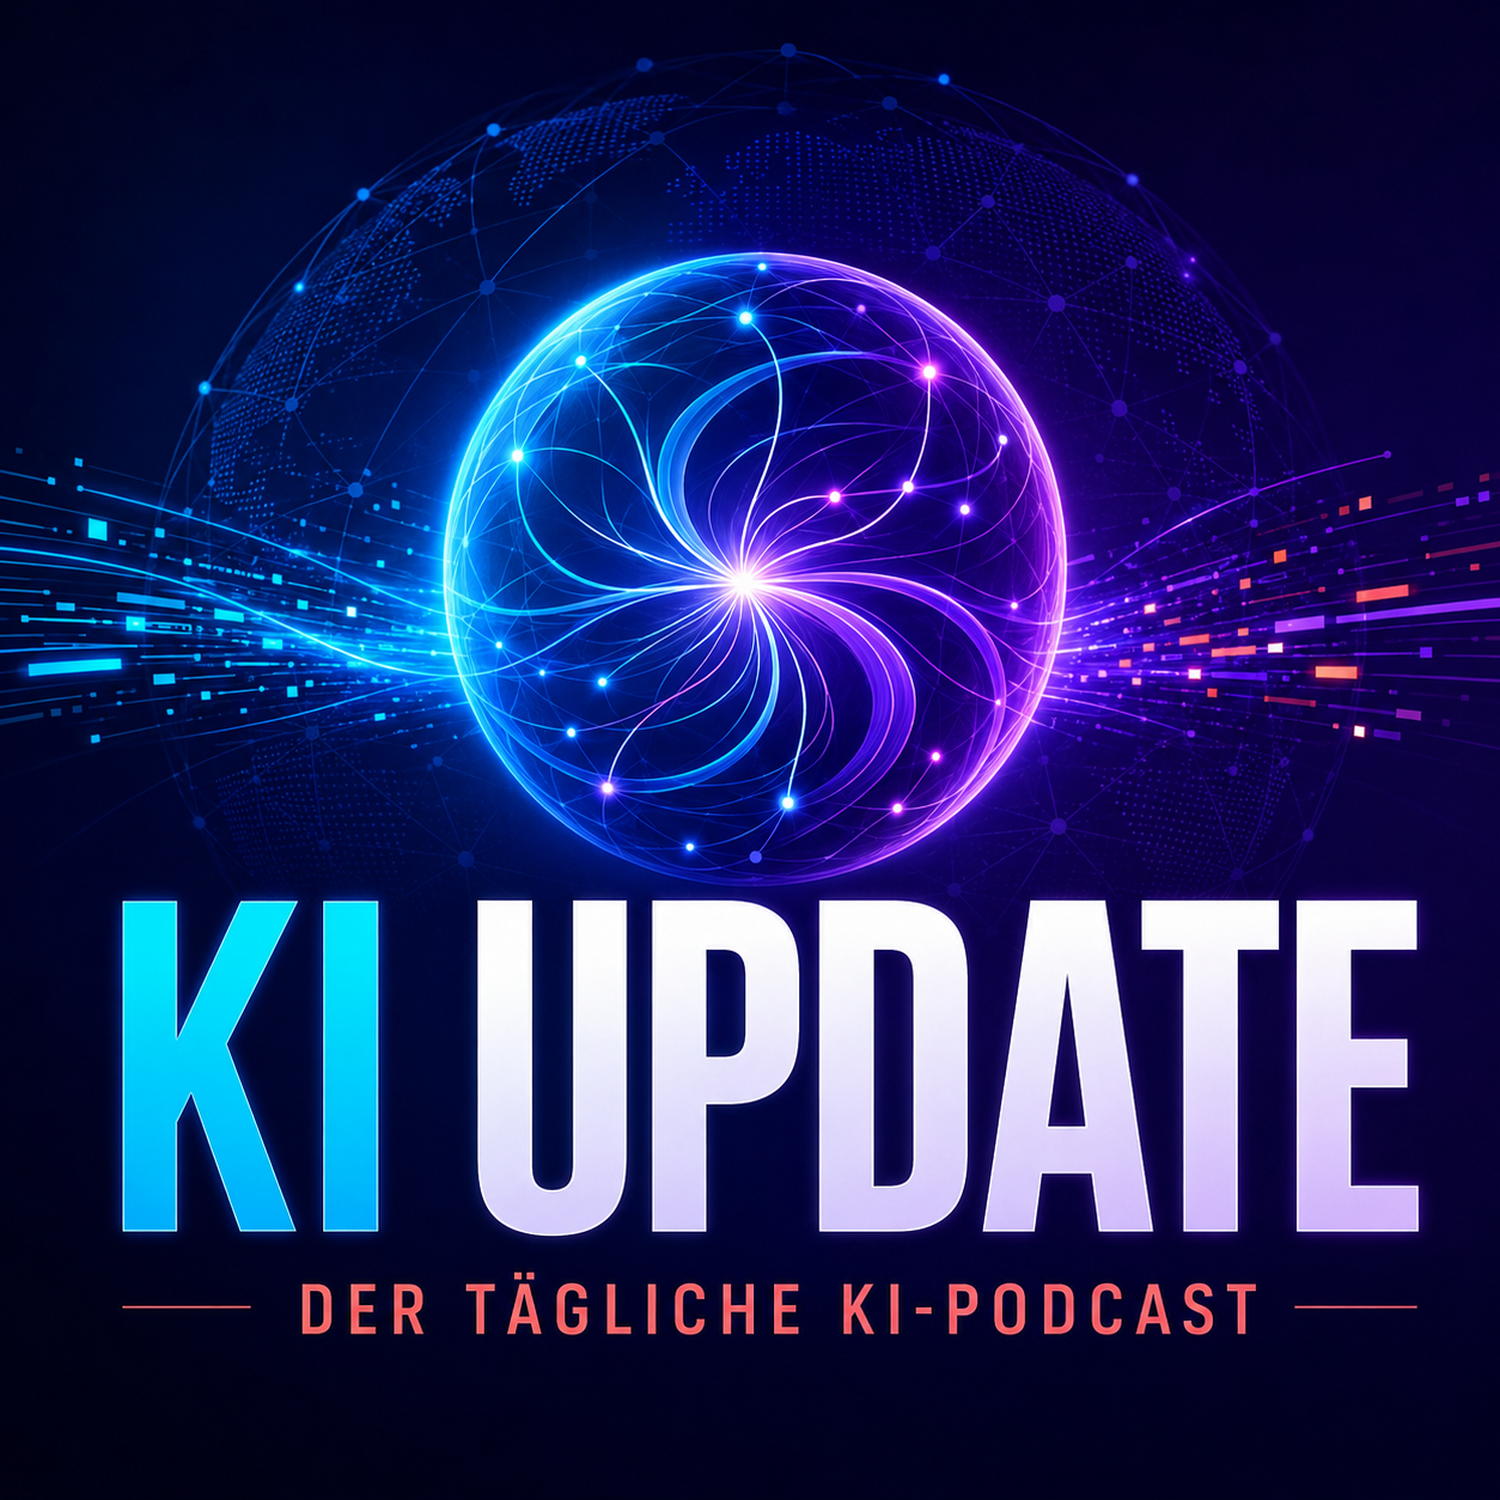
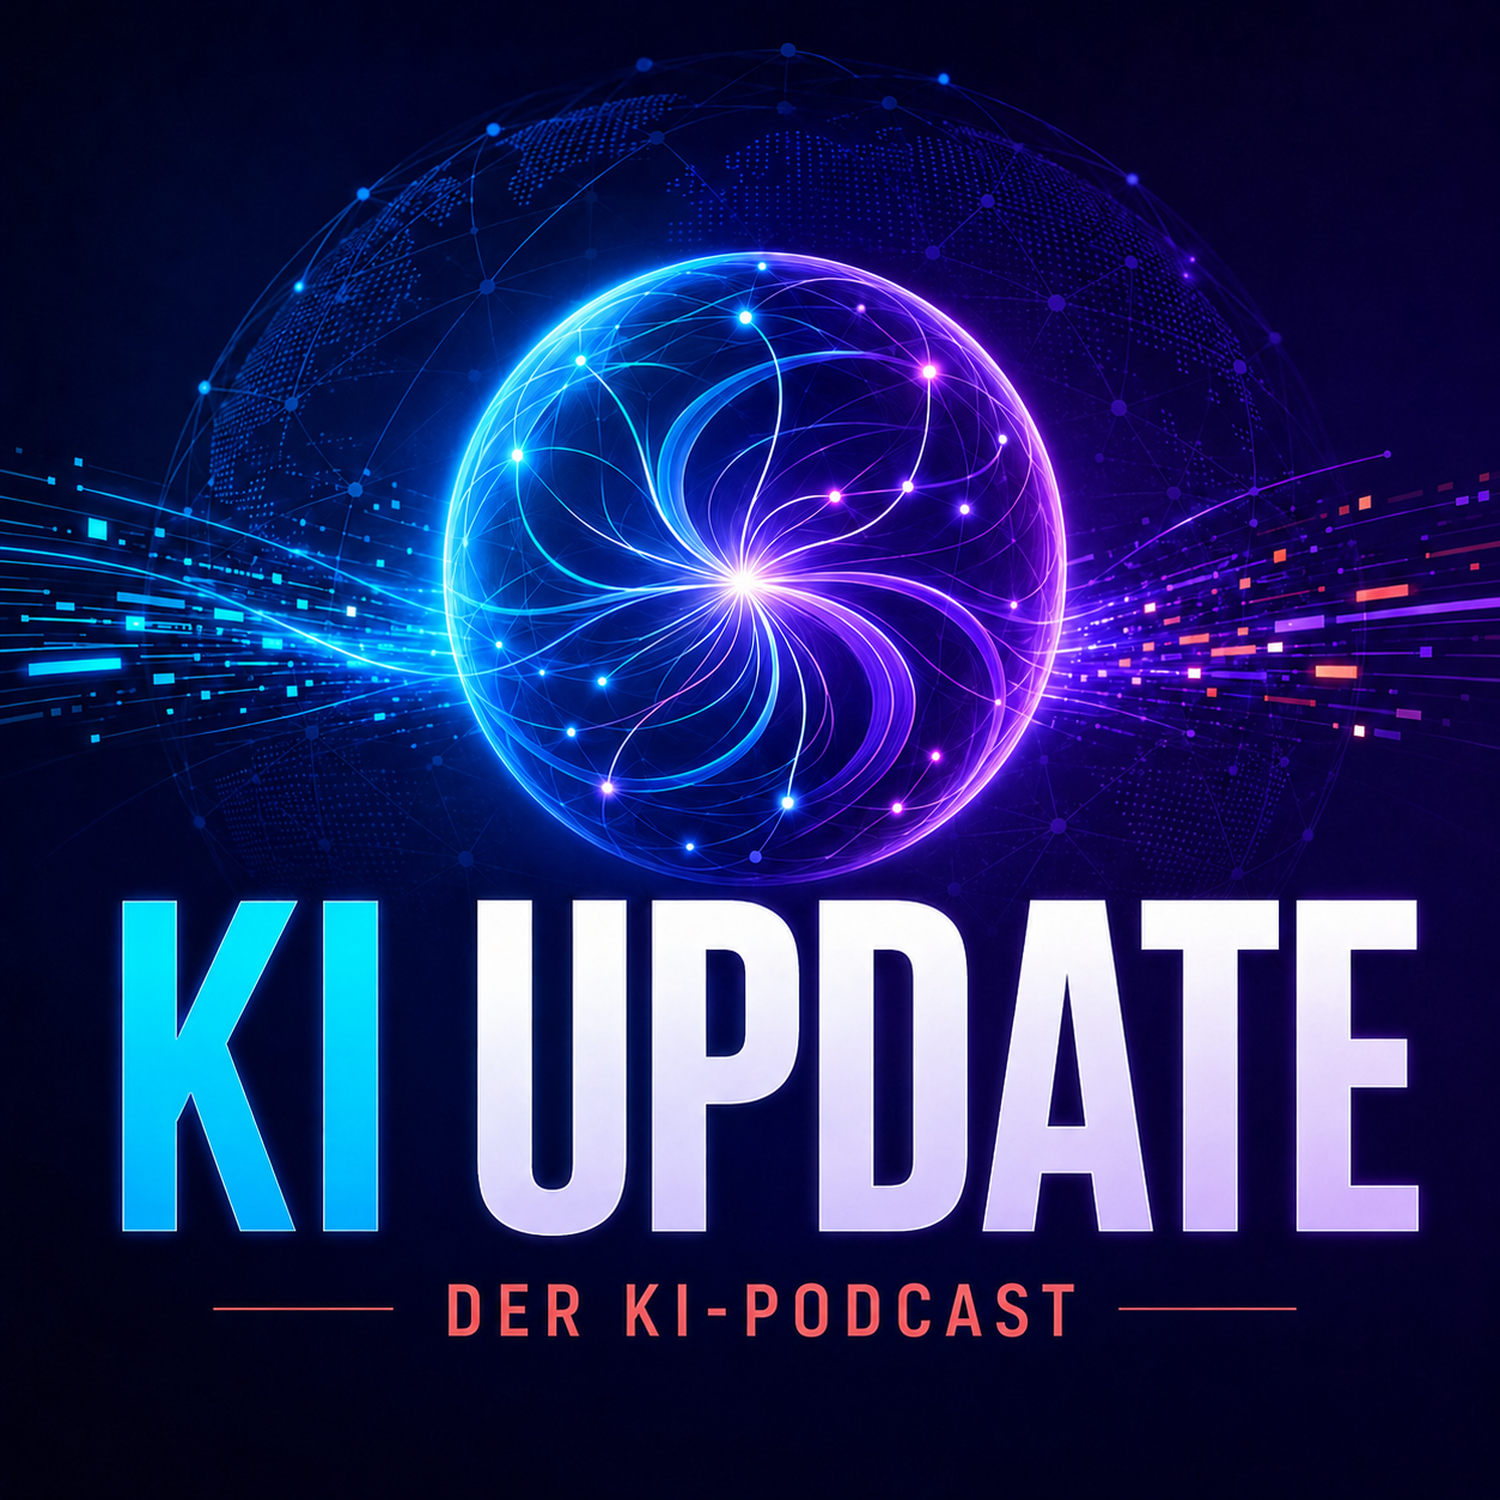
Umstellung auf 2x/Woche (Di & Fr), mehr Breite, Anti-Wiederholung, Rebranding "KI Update"
- Cron taeglich -> Di & Fr (0 3 * * 2,5)
- 6 flache Themen statt 3 tiefe, Ziel 13 Min, harte Kappe 15 Min
- Gedaechtnis: research() meidet Themen der letzten 6 Folgen (recent_topics_block)
- Rebranding "KI Daily" -> "KI Update" (Titel, author, README) + neues Cover 1500px

diff --git a/src/generate.py b/src/generate.py
@@ -11,9 +11,22 @@ import json
 from openai import OpenAI
 
 
-def research(client: OpenAI, cfg: dict, seed: str, date_iso: str) -> str:
+def research(client: OpenAI, cfg: dict, seed: str, date_iso: str, avoid: str = "") -> str:
     """Lässt das Modell die wichtigsten/viralsten KI-Themen von heute recherchieren."""
     n = cfg["content"]["topics_per_episode"]
+
+    avoid_block = ""
+    if avoid.strip():
+        avoid_block = f"""
+
+BEREITS BEHANDELT – NICHT WIEDERHOLEN:
+Die folgenden Themen kamen in den letzten Folgen schon vor. Wähle sie NICHT
+erneut. Ein Thema darf nur dann wieder auftauchen, wenn es eine echte,
+substanzielle neue Entwicklung dazu gibt (nicht nur, weil es weiter trending ist) –
+und dann mit klarem Fokus auf das Neue.
+{avoid}
+"""
+
     prompt = f"""Heutiges Datum: {date_iso}.
 
 Du bist Rechercheur für einen praxisorientierten deutschen KI-Podcast.
@@ -33,7 +46,7 @@ Auswahlkriterien (in dieser Priorität):
 2. Gerade trending / breit diskutiert / frisch gelauncht.
 3. Konkret integrierbar für einen IT-Profi & Anwender (Beruf oder privat).
 MEIDE: reine Forschungspaper, Modelltraining-/Mathematik-Details, PR-Geblubber.
-
+{avoid_block}
 Für JEDES gewählte Thema liefere:
 - Worum es geht – verständlich, in einem Satz auf den Punkt
 - Warum es JETZT relevant/trending ist
@@ -59,23 +72,32 @@ Gib strukturierte, faktendichte Recherchenotizen zurück (kein Fließtext-Skript
 def write_script(client: OpenAI, cfg: dict, notes: str, date_iso: str) -> dict:
     """Verwandelt Recherchenotizen in ein sendefertiges Skript (JSON)."""
     minutes = cfg["content"]["target_minutes"]
+    max_minutes = cfg["content"].get("max_minutes", minutes + 2)
     wpm = cfg["content"]["words_per_minute"]
     target_words = minutes * wpm
+    max_words = max_minutes * wpm
+    topics = cfg["content"]["topics_per_episode"]
     style = cfg["content"]["language_style"]
     audience = cfg["content"]["audience"]
 
-    system = f"""Du schreibst das Skript für eine Solo-Folge eines täglichen KI-Podcasts.
+    system = f"""Du schreibst das Skript für eine Solo-Folge eines KI-Podcasts (erscheint 2×/Woche).
 
 Stil & Sprache: {style}.
 Zielgruppe: {audience}
 Länge: ca. {minutes} Minuten Sprechzeit (~{target_words} Wörter).
+HARTE OBERGRENZE: NIEMALS länger als {max_minutes} Minuten bzw. {max_words} Wörter.
+Lieber je Thema knapper als diese Grenze reißen.
+
+Umfang: {topics} Themen, alle gleichwertig und KOMPAKT behandelt (im Schnitt
+rund {round(minutes / topics, 1)} Minuten pro Thema). Bewusst mehr Breite,
+weniger Tiefe je Thema – kein einzelnes Thema ausufern lassen.
 
 Redaktioneller Fokus: PRAXIS und ANWENDUNG, nicht Technik-Tiefe. Der Hörer will
 wissen, was ein Tool/Projekt kann, was es bringt und wo ER es einsetzen könnte –
 nicht, wie es intern funktioniert. Solide Einordnung zum Mitreden und Entscheiden,
 aber niemals Forschungs-, Mathematik- oder Coding-Ebene.
 
-Aufbau JEDES Themas (Format "Thema + so setzt du's ein"):
+Aufbau JEDES Themas (kompakt, Format "Thema + so setzt du's ein"):
 1. Was ist es – in einfachen Worten auf den Punkt.
 2. Warum es gerade relevant/trending ist.
 3. Was Leute konkret damit machen (echte Beispiele, echter Impact).

diff --git a/src/utils.py b/src/utils.py
@@ -1,6 +1,7 @@
 """Gemeinsame Helfer: Config laden, Pfade, Datum/Slug."""
 from __future__ import annotations
 
+import json
 import os
 import re
 from datetime import datetime, timezone
@@ -38,6 +39,30 @@ def slugify(text: str) -> str:
 def ensure_dirs() -> None:
     EPISODES_DIR.mkdir(parents=True, exist_ok=True)
     FEED_DIR.mkdir(parents=True, exist_ok=True)
+
+
+def recent_topics_block(n: int, exclude_date: str | None = None) -> str:
+    """Titel + Tags der letzten n Folgen als 'nicht wiederholen'-Liste.
+
+    Liest die episodes/*.json (neueste zuerst). Gibt "" zurück, wenn es
+    noch keine früheren Folgen gibt.
+    """
+    metas = sorted(EPISODES_DIR.glob("*.json"), reverse=True)
+    lines: list[str] = []
+    for meta_path in metas:
+        if exclude_date and meta_path.stem == exclude_date:
+            continue  # eine evtl. schon existierende Folge von heute nicht mitzählen
+        try:
+            data = json.loads(meta_path.read_text(encoding="utf-8"))
+        except Exception:
+            continue
+        title = (data.get("title") or "").strip()
+        tags = ", ".join(t for t in data.get("tags", []) if t)
+        if title:
+            lines.append(f"- {title}" + (f"  [Tags: {tags}]" if tags else ""))
+        if len(lines) >= n:
+            break
+    return "\n".join(lines)
 
 
 def _load_dotenv() -> None:

diff --git a/src/main.py b/src/main.py
@@ -23,6 +23,7 @@ from utils import (
     EPISODES_DIR,
     ensure_dirs,
     load_config,
+    recent_topics_block,
     require_api_key,
     slugify,
     today_iso,
@@ -59,7 +60,10 @@ def run() -> int:
     seed = sources.seed_block(seed_items)
 
     print("[2/5] Web-Recherche ...")
-    notes = generate.research(client, cfg, seed, date_iso)
+    avoid = recent_topics_block(cfg["content"]["avoid_recent_episodes"], exclude_date=date_iso)
+    if avoid:
+        print(f"  ↳ meide Themen der letzten {len(avoid.splitlines())} Folge(n)")
+    notes = generate.research(client, cfg, seed, date_iso, avoid=avoid)
 
     print("[3/5] Skript schreiben ...")
     script_data = generate.write_script(client, cfg, notes, date_iso)

diff --git a/README.md b/README.md
@@ -1,8 +1,10 @@
-# KI Daily – vollautomatischer täglicher KI-Podcast
+# KI Update – vollautomatischer KI-Podcast (2×/Woche)
 
-Erzeugt jeden Morgen automatisch eine 8–12-minütige Podcast-Folge über die
-relevantesten KI-Themen und stellt sie als privaten Podcast-Feed bereit –
-abonnierbar in Apple Podcasts. Kein manueller Eingriff nötig.
+Erzeugt zweimal pro Woche (Dienstag & Freitag, morgens) automatisch eine
+Podcast-Folge (max. 15 Min) mit mehreren kompakten KI-Themen und stellt sie als
+privaten Podcast-Feed bereit – abonnierbar in Apple Podcasts. Kein manueller
+Eingriff nötig. Ein Gedächtnis über die letzten Folgen verhindert, dass sich
+Themen wiederholen.
 
 ## Wie es funktioniert
 
@@ -18,7 +20,7 @@ Feeds (arXiv, HN, HF)            OpenAI Responses API + web_search
                                           ▼
                                      src/feed.py ──► feed/podcast.xml
                                           │
-                          GitHub Actions (03:00 UTC, täglich)
+                     GitHub Actions (03:00 UTC, Di & Fr)
                                           │
                                      GitHub Pages
                                           │
@@ -37,7 +39,7 @@ Feeds (arXiv, HN, HF)            OpenAI Responses API + web_search
 | `src/tts.py` | Text-to-Speech (MP3) |
 | `src/feed.py` | Podcast-RSS-Feed bauen |
 | `src/main.py` | Orchestrator (eine Folge erzeugen) |
-| `.github/workflows/daily.yml` | Täglicher Cron-Job in der Cloud |
+| `.github/workflows/daily.yml` | Cron-Job in der Cloud (Di & Fr) |
 | `episodes/` | Erzeugte MP3s + Metadaten (committet) |
 | `feed/podcast.xml` | Der abonnierbare Feed |
 | `assets/cover.png` | Podcast-Cover (selbst hinzufügen) |